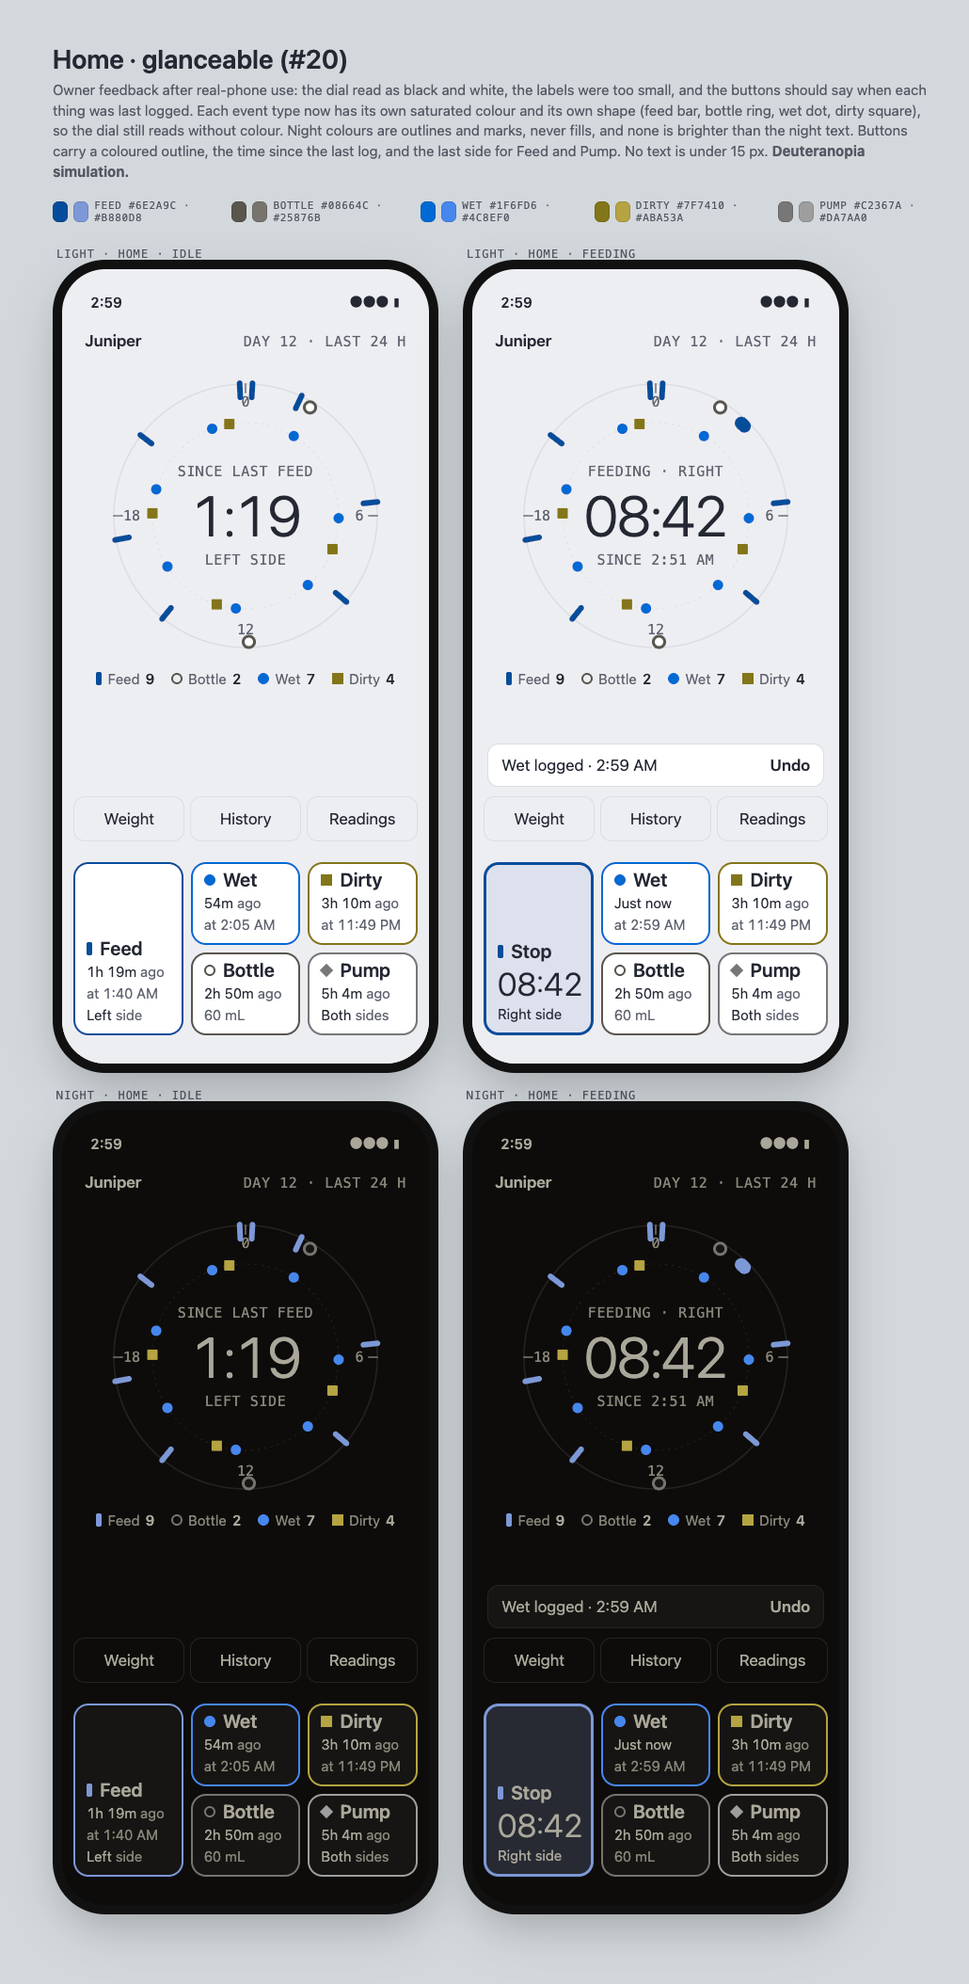
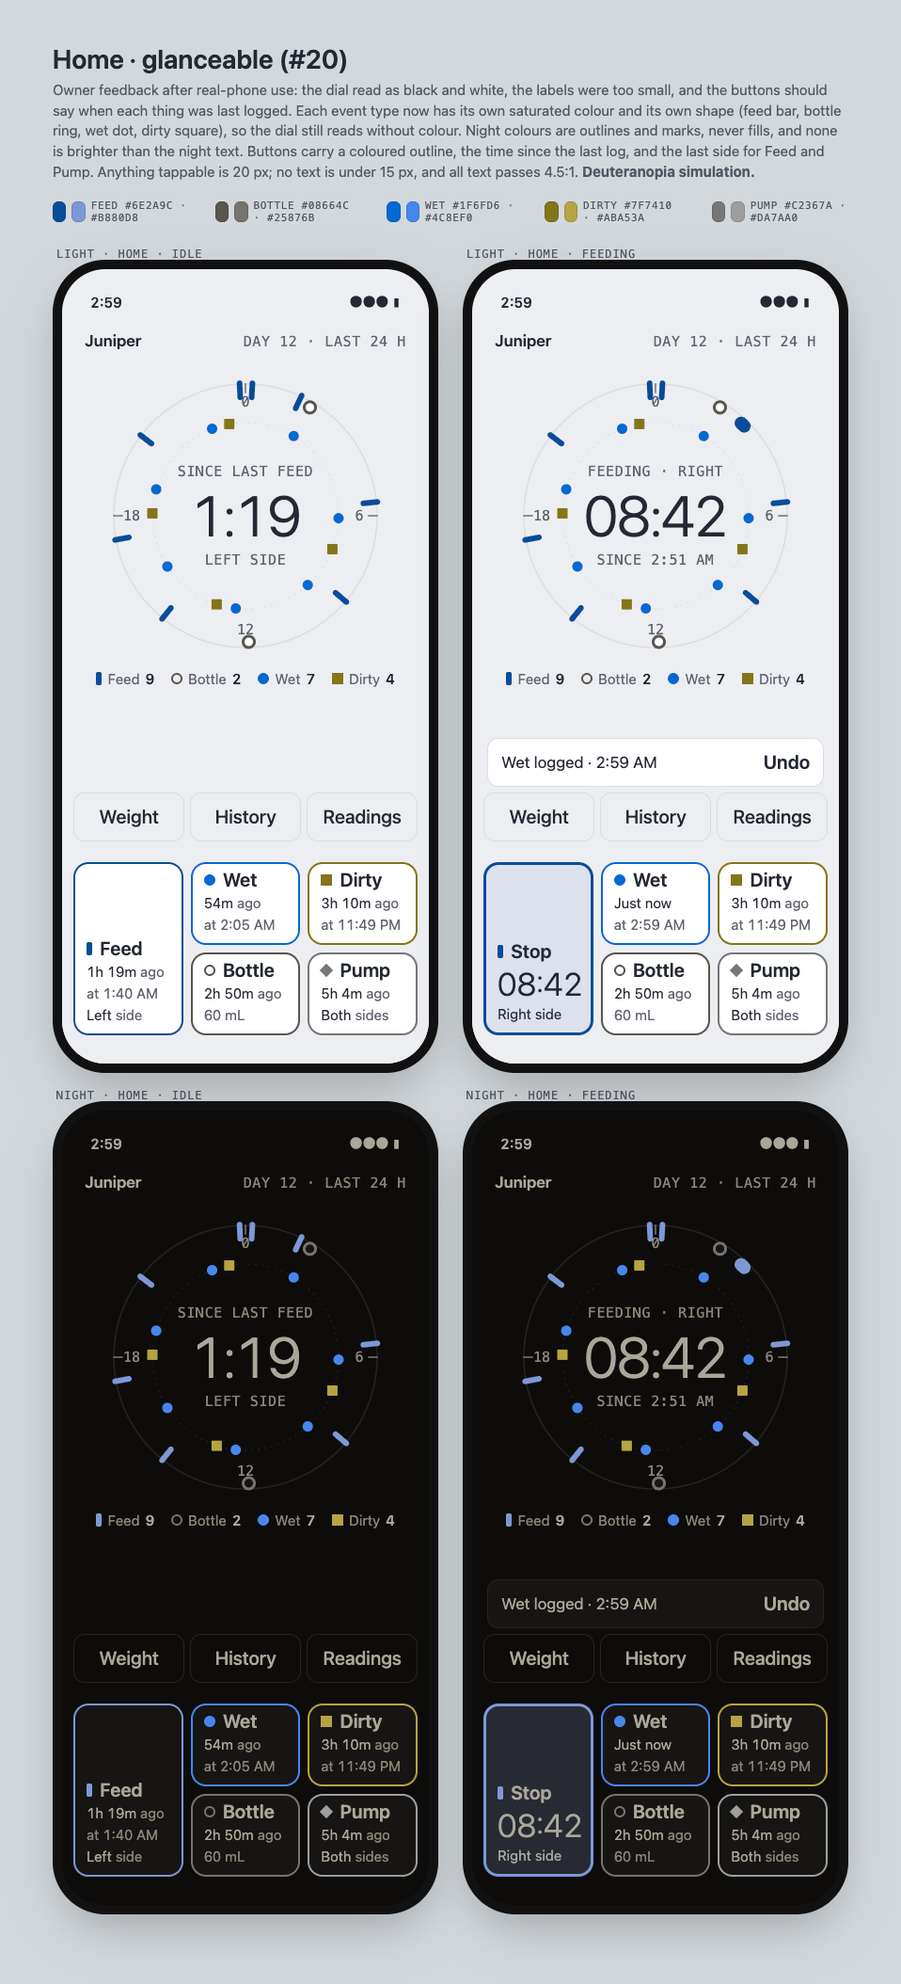
docs/design: 20 px controls and 4.5:1 text everywhere (#20)
Review fixes for #25.

- Every tappable control is 20 px: Home chips, toast Undo, stool swatches,
  Dirty-details Undo, Why?, header time/back actions, tappable list rows
  and form fields. Flag swatches go 2x2 so "Pale yellow" fits.
- No text uses opacity. Weight's last digit is dim at weight 200
  (5.08 / 5.21, was 2.03 / 1.94). Swatch labels are solid black or white
  (Green 4.75, was 3.31).
- Light flag #A8552F -> #A0502B (4.48 -> 4.88 on the flag panel).
- README: tappable-means-20-px rule, and measured text-contrast and
  swatch-label tables. Lowest text in the boards: 4.75 light, 4.63 night.
- Boards regenerated.

diff --git a/docs/design/direction.html b/docs/design/direction.html
@@ -14,13 +14,14 @@ body{background:#D3D8DC;font-family:-apple-system,system-ui,sans-serif;padding:4
 .phone{width:390px;height:844px;border-radius:46px;overflow:hidden;position:relative;box-shadow:0 0 0 10px #111,0 20px 50px rgba(0,0,0,.25);margin:10px;background:var(--bg);color:var(--ink)}
 
 /* Tokens. Light is unchanged from C. Night is "graphite": warm near-black, dim stone ink, muted sage accent. No red. */
-.light{--feed:#6E2A9C;--bottle:#08664C;--wet:#1F6FD6;--dirty:#7F7410;--pump:#C2367A;--bg:#ECEFF1;--panel:#FFFFFF;--ink:#1F2A33;--dim:#5B6670;--line:#D9DEE2;--acc:#2E6A8E;--accInk:#FFFFFF;--band:#D6E4EC;--flag:#A8552F;--flagSoft:#F7EBE3;--well:#FFFFFF}
+.light{--feed:#6E2A9C;--bottle:#08664C;--wet:#1F6FD6;--dirty:#7F7410;--pump:#C2367A;--bg:#ECEFF1;--panel:#FFFFFF;--ink:#1F2A33;--dim:#5B6670;--line:#D9DEE2;--acc:#2E6A8E;--accInk:#FFFFFF;--band:#D6E4EC;--flag:#A0502B;--flagSoft:#F7EBE3;--well:#FFFFFF}
 .night{--feed:#B880D8;--bottle:#25876B;--wet:#4C8EF0;--dirty:#ABA53A;--pump:#DA7AA0;--bg:#0D0C0B;--panel:#161513;--ink:#ADA59A;--dim:#8A8378;--line:#252320;--acc:#6F8F84;--accInk:#0D0C0B;--band:#1E2925;--flag:#C29A62;--flagSoft:#1B1712;--well:#1C1A17}
 
 .sb{height:50px;display:flex;justify-content:space-between;align-items:flex-end;padding:0 30px 6px;font:600 15px -apple-system,system-ui,sans-serif}
 .lab{font:500 15px ui-monospace,Menlo,monospace;letter-spacing:.04em;text-transform:uppercase;color:var(--dim)}
 .top{display:flex;justify-content:space-between;align-items:baseline;padding:16px 24px 0}
 .top b{font:600 17px -apple-system,system-ui,sans-serif}
+.top .act{font:500 20px -apple-system,system-ui,sans-serif;color:var(--acc);font-variant-numeric:tabular-nums}
 .num{font-variant-numeric:tabular-nums}
 
 /* home */
@@ -35,7 +36,7 @@ body{background:#D3D8DC;font-family:-apple-system,system-ui,sans-serif;padding:4
 .quiet{text-align:center;margin-top:18px;font-size:17px;color:var(--dim)}
 .quiet b{color:var(--ink);font-weight:500}
 .chips{position:absolute;left:12px;right:12px;bottom:236px;display:flex;gap:6px}
-.chips div{flex:1;height:48px;border-radius:12px;border:1px solid var(--line);display:flex;align-items:center;justify-content:center;font-size:17px;color:var(--ink)}
+.chips div{flex:1;height:52px;border-radius:12px;border:1px solid var(--line);display:flex;align-items:center;justify-content:center;font:500 20px -apple-system,system-ui,sans-serif;color:var(--ink)}
 .rail{position:absolute;left:0;right:0;bottom:0;padding:10px 12px 30px;display:grid;grid-template-columns:repeat(3,minmax(0,1fr));grid-template-rows:88px 88px;gap:8px;background:var(--bg)}
 .rail>div{--ev:var(--line);border-radius:16px;background:var(--panel);border:2px solid var(--ev);display:flex;flex-direction:column;justify-content:flex-end;padding:10px 12px;font:600 20px/1.1 -apple-system,system-ui,sans-serif}
 .rail .tall{grid-row:span 2}
@@ -51,8 +52,8 @@ body{background:#D3D8DC;font-family:-apple-system,system-ui,sans-serif;padding:4
 .g.g-wet{background:var(--wet);border-radius:50%}
 .g.g-dirty{background:var(--dirty)}
 .g.g-pump{background:var(--pump);transform:rotate(45deg) scale(.85)}
-.toast{position:absolute;left:16px;right:16px;border:1px solid var(--line);border-radius:12px;padding:12px 14px;display:flex;justify-content:space-between;font-size:17px;background:var(--panel)}
-.toast b{font-weight:600}
+.toast{position:absolute;left:16px;right:16px;border:1px solid var(--line);border-radius:12px;padding:0 14px;height:52px;display:flex;justify-content:space-between;align-items:center;font-size:17px;background:var(--panel)}
+.toast b{font:600 20px -apple-system,system-ui,sans-serif}
 .toast .acts{display:flex;gap:18px}
 
 /* shared controls */
@@ -73,10 +74,11 @@ body{background:#D3D8DC;font-family:-apple-system,system-ui,sans-serif;padding:4
 /* diaper */
 .well{margin:14px 16px 0;border-radius:18px;padding:14px;background:var(--well);border:1px solid var(--line)}
 .grid{display:grid;grid-template-columns:repeat(3,1fr);gap:8px}
-.tile{height:84px;border-radius:12px;position:relative;padding:8px 10px;font:500 15px/1.1 -apple-system,system-ui,sans-serif;display:flex;align-items:flex-end;color:rgba(0,0,0,.66)}
-.tile.dk{color:rgba(255,255,255,.82)}
-.tile.sm{height:58px}
-.tile.fl::after{content:"!";position:absolute;top:6px;right:9px;font:700 15px ui-monospace,Menlo,monospace}
+/* Swatch labels are solid black or white, whichever passes 4.5:1 on that swatch. Never an opacity. */
+.tile{height:84px;border-radius:12px;position:relative;padding:8px 10px;font:500 20px/1.1 -apple-system,system-ui,sans-serif;display:flex;align-items:flex-end;color:#000}
+.tile.dk{color:#FFF}
+.tile.sm{height:60px}
+.tile.fl::after{content:"!";position:absolute;top:6px;right:9px;font:700 20px ui-monospace,Menlo,monospace}
 .flagnote{margin:16px 2px 8px;color:var(--flag)}
 .toggle{display:flex;justify-content:space-between;align-items:center;margin:16px 16px 0;padding:0 16px;height:56px;border-radius:14px;background:var(--panel);border:1px solid var(--line);font-size:20px}
 .sw{width:50px;height:30px;border-radius:15px;background:var(--line);position:relative}
@@ -86,6 +88,7 @@ body{background:#D3D8DC;font-family:-apple-system,system-ui,sans-serif;padding:4
 .done{display:flex;align-items:center;gap:12px;margin:18px 16px 0;padding:14px 16px;border-radius:14px;background:var(--panel);border:1px solid var(--line)}
 .done .chip{width:34px;height:34px;border-radius:8px}
 .done div{flex:1;font-size:17px}
+.done.tap div{font-size:20px}
 .done small{display:block;color:var(--dim);font-size:15px;margin-top:2px}
 
 /* bottle + pump */
@@ -120,7 +123,7 @@ body{background:#D3D8DC;font-family:-apple-system,system-ui,sans-serif;padding:4
 .verdict p{font-size:17px;color:var(--dim)}
 .verdict.flag{background:var(--flagSoft);border:1.5px solid var(--flag)}
 .verdict.flag .lab{color:var(--flag)}
-.verdict .more{display:flex;justify-content:space-between;margin-top:14px;padding-top:12px;border-top:1px solid var(--line);font-size:17px;font-weight:600}
+.verdict .more{display:flex;justify-content:space-between;margin-top:14px;padding-top:12px;border-top:1px solid var(--line);font-size:20px;font-weight:600}
 .verdict.flag .more{border-top-color:color-mix(in srgb,var(--flag) 35%,transparent)}
 .gauge{margin:10px 16px 0;padding:16px 18px;border-radius:16px;background:var(--panel);border:1px solid var(--line)}
 .gauge .r{display:flex;justify-content:space-between;align-items:baseline}
@@ -141,16 +144,16 @@ body{background:#D3D8DC;font-family:-apple-system,system-ui,sans-serif;padding:4
 .day{margin:20px 24px 6px}
 .ev{display:grid;grid-template-columns:62px 1fr 30px;align-items:center;gap:10px;padding:13px 24px;border-bottom:1px solid var(--line)}
 .ev .t{font:500 15px ui-monospace,Menlo,monospace;color:var(--dim)}
-.ev .k{font-size:17px}
+.ev .k{font-size:20px}
 .ev .k small{display:block;color:var(--dim);font-size:15px;margin-top:2px}
 .ev .who{width:30px;height:30px;border-radius:50%;border:1px solid var(--line);display:flex;align-items:center;justify-content:center;font:500 15px ui-monospace,Menlo,monospace;color:var(--dim)}
 .ev .dot{display:inline-block;width:10px;height:10px;border-radius:3px;margin-right:6px;vertical-align:0}
 .list{margin:0 16px;border-radius:16px;background:var(--panel);border:1px solid var(--line)}
-.list div{display:flex;justify-content:space-between;align-items:center;padding:0 16px;height:56px;font-size:17px}
+.list div{display:flex;justify-content:space-between;align-items:center;padding:0 16px;height:56px;font-size:20px}
 .list div+div{border-top:1px solid var(--line)}
 .list span{color:var(--dim);font-size:15px}
 .field{margin:0 16px 0;padding:10px 16px 12px;border-radius:14px;background:var(--panel);border:1px solid var(--line)}
-.field b{display:block;font:400 19px -apple-system,system-ui,sans-serif;margin-top:4px}
+.field b{display:block;font:400 20px -apple-system,system-ui,sans-serif;margin-top:4px}
 .field+.field{margin-top:8px}
 .keys{position:absolute;left:12px;right:12px;bottom:110px;display:grid;grid-template-columns:repeat(3,1fr);gap:6px}
 .keys div{height:58px;border-radius:12px;background:var(--panel);border:1px solid var(--line);display:flex;align-items:center;justify-content:center;font:400 24px -apple-system,system-ui,sans-serif}
@@ -163,6 +166,8 @@ const SW={normal:[["Yellow","#E6C24A"],["Mustard","#C9A227"],["Green","#6F7F2E"]
           flag:[["Pale yellow","#EFE6B8"],["Clay","#BDB3A1"],["White","#F4F1EA"],["Red","#9E2A22",1]]};
 const sb=`<div class="sb"><span class="num">2:59</span><span>●●● ▮</span></div>`;
 const hdr=(t,r)=>`<div class="top"><b>${t}</b><span class="lab">${r}</span></div>`;
+// Tappable header: the left side goes back, the right side edits the time. Both are controls, so 20 px.
+const hdrA=(t,r,back)=>`<div class="top">${back?`<span class="act">${t}</span>`:`<b>${t}</b>`}${r?`<span class="act">${r}</span>`:''}</div>`;
 
 function pt(h,r,c=150){const a=(h/24)*2*Math.PI-Math.PI/2;return[c+r*Math.cos(a),c+r*Math.sin(a)]}
 function dialSvg(running){
@@ -198,24 +203,24 @@ ${legend(9)}
 <div class="chips"><div>Weight</div><div>History</div><div>Readings</div></div>
 ${rail(true)}`,
 
-feed:()=>`${sb}${hdr('Breastfeed','Started 2:51 AM ›')}
+feed:()=>`${sb}${hdrA('Breastfeed','Started 2:51 AM ›')}
 <div class="big"><span class="lab">Right side</span><div class="v">08:42</div><span class="lab">Total 08:42 · last feed left</span></div>
 <div class="sides"><div>Left<small>—</small></div><div class="on">Right<small>08:42</small></div></div>
 <div class="go2">Type a duration instead</div>
 <div class="go">Stop · log 8 min</div>`,
 
-diaperColor:()=>`${sb}${hdr('Dirty diaper','Now · 2:59 AM ›')}
+diaperColor:()=>`${sb}${hdrA('Dirty diaper','Now · 2:59 AM ›')}
 <div class="steps"><i class="on"></i><i></i></div>
 <div class="toggle"><span>Also wet <span style="color:var(--dim)">· mixed</span></span><span class="sw"></span></div>
 <div class="well"><div class="lab">Color · true in every mode</div>
 <div class="grid" style="margin-top:10px">${SW.normal.map(([n,c,d])=>`<div class="tile ${d?'dk':''}" style="background:${c}">${n}</div>`).join('')}</div>
 <div class="lab flagnote">! Consider talking to your pediatrician</div>
-<div class="grid" style="grid-template-columns:repeat(4,1fr)">${SW.flag.map(([n,c,d])=>`<div class="tile sm fl ${d?'dk':''}" style="background:${c}">${n}</div>`).join('')}</div></div>
+<div class="grid" style="grid-template-columns:repeat(2,1fr)">${SW.flag.map(([n,c,d])=>`<div class="tile sm fl ${d?'dk':''}" style="background:${c}">${n}</div>`).join('')}</div></div>
 <div class="hint lab">Tap a color to log · details are optional</div>`,
 
 diaperDetails:()=>`${sb}${hdr('Details','Optional')}
 <div class="steps"><i class="on"></i><i class="on"></i></div>
-<div class="done"><span class="chip" style="background:#C9A227"></span><div>Logged · dirty, mustard<small>2:59 AM</small></div><b style="font-size:15px">Undo</b></div>
+<div class="done"><span class="chip" style="background:#C9A227"></span><div>Logged · dirty, mustard<small>2:59 AM</small></div><b style="font-size:20px">Undo</b></div>
 <div class="sec lab">Texture</div><div class="opts" style="grid-template-columns:repeat(4,1fr)"><div>Seedy</div><div class="on">Soft</div><div>Watery</div><div>Hard</div></div>
 <div class="sec lab">Size</div><div class="opts" style="grid-template-columns:repeat(3,1fr)"><div>Small</div><div class="on">Medium</div><div>Large</div></div>
 <div class="sec lab">Also noticed</div><div class="opts" style="grid-template-columns:repeat(3,1fr)"><div>Blood</div><div>Mucus</div><div>Other</div></div>
@@ -224,7 +229,7 @@ diaperDetails:()=>`${sb}${hdr('Details','Optional')}
 bottle:()=>{const H=400,at=v=>H-(v/240)*H;
  const ml=[0,60,120,180,240].map(v=>`<div style="top:${at(v)}px" class="${v==60?'hi':''}">${v}</div>`).join('');
  const oz=[0,2,4,6,8].map(v=>`<div style="top:${at(v*29.57)}px" class="${v==2?'hi':''}">${v}</div>`).join('');
- return `${sb}${hdr('Bottle','Now · 2:59 AM ›')}
+ return `${sb}${hdrA('Bottle','Now · 2:59 AM ›')}
 <div class="seg"><div class="on">Breast milk</div><div>Formula</div></div>
 <div style="display:flex;justify-content:space-between;margin:18px 30px -10px"><span class="lab">mL</span><span class="lab">oz</span></div>
 <div class="bottle" style="height:${H}px"><div class="scale l">${ml}</div><div class="vessel"><div class="fill" style="height:${(60/240)*H}px"></div><div class="grip" style="top:${at(60)}px"></div></div><div class="scale r">${oz}</div></div>
@@ -238,23 +243,23 @@ readingsOk:()=>`${sb}${hdr('Readings','Day 12 · 24 h')}
 <div class="verdict"><div class="lab">3 checks · fully logged · synced</div><h3>Diapers and weight are in the expected range</h3><p>Total intake is not assessed. See below.</p></div>
 ${gauges()}`,
 
-why:()=>`${sb}${hdr('‹ Readings','Why this flag')}
+why:()=>`${sb}${hdrA('‹ Readings','',1)}
 <div class="prose"><div class="lab" style="color:var(--flag)">! Call your pediatrician promptly</div><h2>Clay-colored stool</h2>
 <p>In young babies, pale, clay or white stool can be a sign of a liver problem. The AAP says to bring it to a doctor's attention as soon as possible, even once.</p>
 <p style="color:var(--dim)">The app can't tell what caused it. Your pediatrician can.</p></div>
-<div class="done" style="margin-top:8px"><span class="chip" style="background:#BDB3A1"></span><div>Dirty diaper · clay<small>Today 4:10 PM · K</small></div><span class="lab">›</span></div>
+<div class="done tap" style="margin-top:8px"><span class="chip" style="background:#BDB3A1"></span><div>Dirty diaper · clay<small>Today 4:10 PM · K</small></div><span class="lab">›</span></div>
 <div class="src"><b style="color:var(--ink)">Sources</b><br>AAP, “The Many Colors of Poop” (healthychildren.org)<br>NHS, “Jaundice in newborns” (nhs.uk)<br>From docs/CLINICAL_REFERENCE.md · red-flag colours</div>
 <div class="go2">Edit the diaper</div>
 <div class="go">Talked to the pediatrician</div>`,
 
-pump:()=>`${sb}${hdr('Pump','Now · 2:59 AM ›')}
+pump:()=>`${sb}${hdrA('Pump','Now · 2:59 AM ›')}
 <div class="pair">${[["Left",45],["Right",38]].map(([s,v])=>`<div><div class="vessel"><div class="fill" style="height:${v/150*100}%"></div><div class="grip" style="top:${100-v/150*100}%"></div></div><div class="cap2"><span class="lab">${s}</span><b>${v} <span style="font-size:15px;color:var(--dim)">mL</span></b></div></div>`).join('')}</div>
 <div class="toggle" style="margin-top:22px"><span>Right after a feed</span><span class="sw on"></span></div>
 <div class="go">Log 83 mL · 2.8 oz</div>`,
 
-weight:()=>`${sb}${hdr('Weight','Now · 2:59 AM ›')}
+weight:()=>`${sb}${hdrA('Weight','Now · 2:59 AM ›')}
 <div class="seg"><div class="on">Home scale</div><div>Clinic</div></div>
-<div class="readout" style="margin-top:44px"><div class="v" style="font-size:64px">3 64<span style="color:var(--ink);font-size:64px;opacity:.35">0</span> <span>g</span></div><div class="lab" style="margin-top:6px">8 lb 0.4 oz · birth 3 530 g</div></div>
+<div class="readout" style="margin-top:44px"><div class="v" style="font-size:64px">3 64<span style="color:var(--dim);font-size:64px;font-weight:200">0</span> <span>g</span></div><div class="lab" style="margin-top:6px">8 lb 0.4 oz · birth 3 530 g</div></div>
 <div class="keys">${[1,2,3,4,5,6,7,8,9].map(n=>`<div>${n}</div>`).join('')}<div class="ghost">lb/oz</div><div>0</div><div class="ghost">⌫</div></div>
 <div class="go">Log 3 640 g</div>`,
 
@@ -289,7 +294,7 @@ function gauges(){return [["Wet diapers","7",[50,100],72,"6+ from day 5"],["Dirt
 +`<div class="gauge"><div class="r"><span class="k">Recorded bottle intake</span><span class="v">≈410 mL</span></div><div style="margin-top:10px;font-size:15px;font-weight:500">Not enough information to assess total intake</div><div class="lab" style="margin-top:4px;letter-spacing:.02em;text-transform:none;font-size:15px">≈410 mL recorded from bottles. 9 breastfeeds not measured.</div></div>`}
 
 const BOARDS={
- home:{h:"Home · glanceable (#20)",s:"Owner feedback after real-phone use: the dial read as black and white, the labels were too small, and the buttons should say when each thing was last logged. Each event type now has its own saturated colour and its own shape (feed bar, bottle ring, wet dot, dirty square), so the dial still reads without colour. Night colours are outlines and marks, never fills, and none is brighter than the night text. Buttons carry a coloured outline, the time since the last log, and the last side for Feed and Pump. No text is under 15 px.",cols:[["Home · idle","home","home"],["Home · feeding","homeFeeding","homeFeeding"]]},
+ home:{h:"Home · glanceable (#20)",s:"Owner feedback after real-phone use: the dial read as black and white, the labels were too small, and the buttons should say when each thing was last logged. Each event type now has its own saturated colour and its own shape (feed bar, bottle ring, wet dot, dirty square), so the dial still reads without colour. Night colours are outlines and marks, never fills, and none is brighter than the night text. Buttons carry a coloured outline, the time since the last log, and the last side for Feed and Pump. Anything tappable is 20 px; no text is under 15 px, and all text passes 4.5:1.",cols:[["Home · idle","home","home"],["Home · feeding","homeFeeding","homeFeeding"]]},
  core:{h:"Instrument · core screens",cols:[["Home · 24 h dial","home","home"],["Breastfeed timer","feed","feed"],["Diaper 1 · color","diaperColor","diaperColor"],["Diaper 2 · details","diaperDetails","diaperDetails"],["Bottle","bottle","bottle"],["Readings","readingsFlag","readingsOk"],["Why?","why","why"]]},
  rest:{h:"Instrument · remaining screens",cols:[["Pump","pump","pump"],["Weight","weight","weight"],["History","history","history"],["Add a baby","addBaby","addBaby"],["Household","settings","settings"],["Sign in","signin","signin"]]},
 };

diff --git a/docs/design/README.md b/docs/design/README.md
@@ -33,15 +33,20 @@ This applies to every screen, not only Home (#20).
 
 | Text | Minimum |
 |---|---|
-| Button labels (quick-log keys, primary and secondary actions, segmented controls, options) | 20 px |
-| Body text, list rows, toasts, readings values | 17 px |
-| Secondary text (captions, monospaced labels, "last logged" lines, hints) | 15 px |
+| Anything tappable: quick-log keys, primary and secondary actions, segmented controls, options, stool swatches, Undo, the Home chips (Weight, History, Readings), Why?, header actions (the time edit, back), list rows that open something, form fields | 20 px |
+| Body text that is not a control: titles, toast messages, readings values | 17 px |
+| Non-interactive captions: monospaced labels, "last logged" lines, a row's second line, hints | 15 px |
 
+- If you can tap it, its label is 20 px. Only text that does nothing when
+  tapped may be smaller. A caption inside a tappable row (the "Clinic ·
+  3 610 g" line under "Weight") is a caption.
 - Nothing a parent has to read is smaller than 15 px. Phone OS chrome (the
   status bar) is not ours.
-- Any text a parent has to read meets WCAG AA (4.5:1) on the surface it sits on.
-  That is why `dim` changed in #20: the old values were 3.84:1 (light) and
-  3.03:1 (night) on the panel.
+- All text meets WCAG AA (4.5:1) in both themes, measured after any opacity
+  is blended in. There are no exceptions, so text never uses opacity. De-emphasis
+  comes from the `dim` token, a lighter weight or a smaller size (see Text
+  contrast). That is also why `dim` changed in #20: the old values were 3.84:1
+  (light) and 3.03:1 (night) on the panel.
 - Long lines may wrap, but a line must never truncate a number or a side.
 
 ## Tokens
@@ -55,7 +60,7 @@ This applies to every screen, not only Home (#20).
 | line | `#D9DEE2` | `#252320` |
 | accent | `#2E6A8E` | `#6F8F84` |
 | band (expected range) | `#D6E4EC` | `#1E2925` |
-| flag | `#A8552F` | `#C29A62` |
+| flag | `#A0502B` | `#C29A62` |
 
 Night is "graphite": warm near-black, dim stone text and a muted sage accent.
 There is no red or amber tint, because red reads as an emergency in a medical
@@ -94,9 +99,48 @@ apart without colour.
 | Dirty | 4.13 | 4.76 | 7.61 | 7.10 |
 | Pump | 4.43 | 5.12 | 6.77 | 6.32 |
 
-  Text: ink on panel is 14.61 (light) and 7.50 (night). The new `dim` is 5.87
-  and 4.86 on the panel, and 5.08 and 5.21 on the background. On the tinted
-  running key, text is ink: 11.15 (light) and 5.95 (night).
+  Text contrast has its own table below.
+- **Text contrast** (measured, both themes). Every text node in
+  `direction.html` was measured in Chrome after blending opacity and stacked
+  backgrounds. The lowest is 4.75 (light) and 4.63 (night).
+
+| Text | On | Light | Night |
+|---|---|---|---|
+| ink | panel | 14.61 | 7.50 |
+| ink | bg | 12.65 | 8.03 |
+| dim | panel | 5.87 | 4.86 |
+| dim | bg | 5.08 | 5.21 |
+| dim | diaper well | 5.87 | 4.63 |
+| ink | running key (16% tint) | 11.15 | 5.95 |
+| accent (header actions) | bg | 5.10 | 5.53 |
+| button text (accInk) | accent | 5.89 | 5.53 |
+| flag | flag panel | 4.88 | 6.87 |
+| flag | bg (Why screen) | 4.95 | 7.53 |
+| Weight last digit (dim, weight 200) | bg | 5.08 | 5.21 |
+
+  Light `flag` moved from `#A8552F` to `#A0502B`: the old value was 4.48 on
+  the flag panel. The Weight screen used to fade the last digit to 35% ink
+  (2.03 light, 1.94 night). It is now `dim` at a lighter weight.
+
+- **Stool swatch labels** are solid black or white, whichever passes on that
+  swatch, never an opacity. They are the same in both themes because the
+  swatches are true colour.
+
+| Swatch | Label | Ratio |
+|---|---|---|
+| Yellow `#E6C24A` | black | 12.18 |
+| Mustard `#C9A227` | black | 8.68 |
+| Green `#6F7F2E` | black | 4.75 |
+| Brown `#7A5230` | white | 6.82 |
+| Black `#2A2420` | white | 15.31 |
+| Pale yellow `#EFE6B8` | black | 16.68 |
+| Clay `#BDB3A1` | black | 10.13 |
+| White `#F4F1EA` | black | 18.62 |
+| Red `#9E2A22` | white | 7.48 |
+
+  Green used 66% black (3.31). Ink (3.31) and white (4.42) also fail on it, so
+  it takes pure black.
+
 - **Colour vision.** The palette was checked under a deuteranopia simulation
   (Machado et al. 2009, severity 1). The closest pair is 0.089 apart in OKLab
   (night feed and wet), against 0.047 for an Okabe-Ito-style set. Feed and wet
